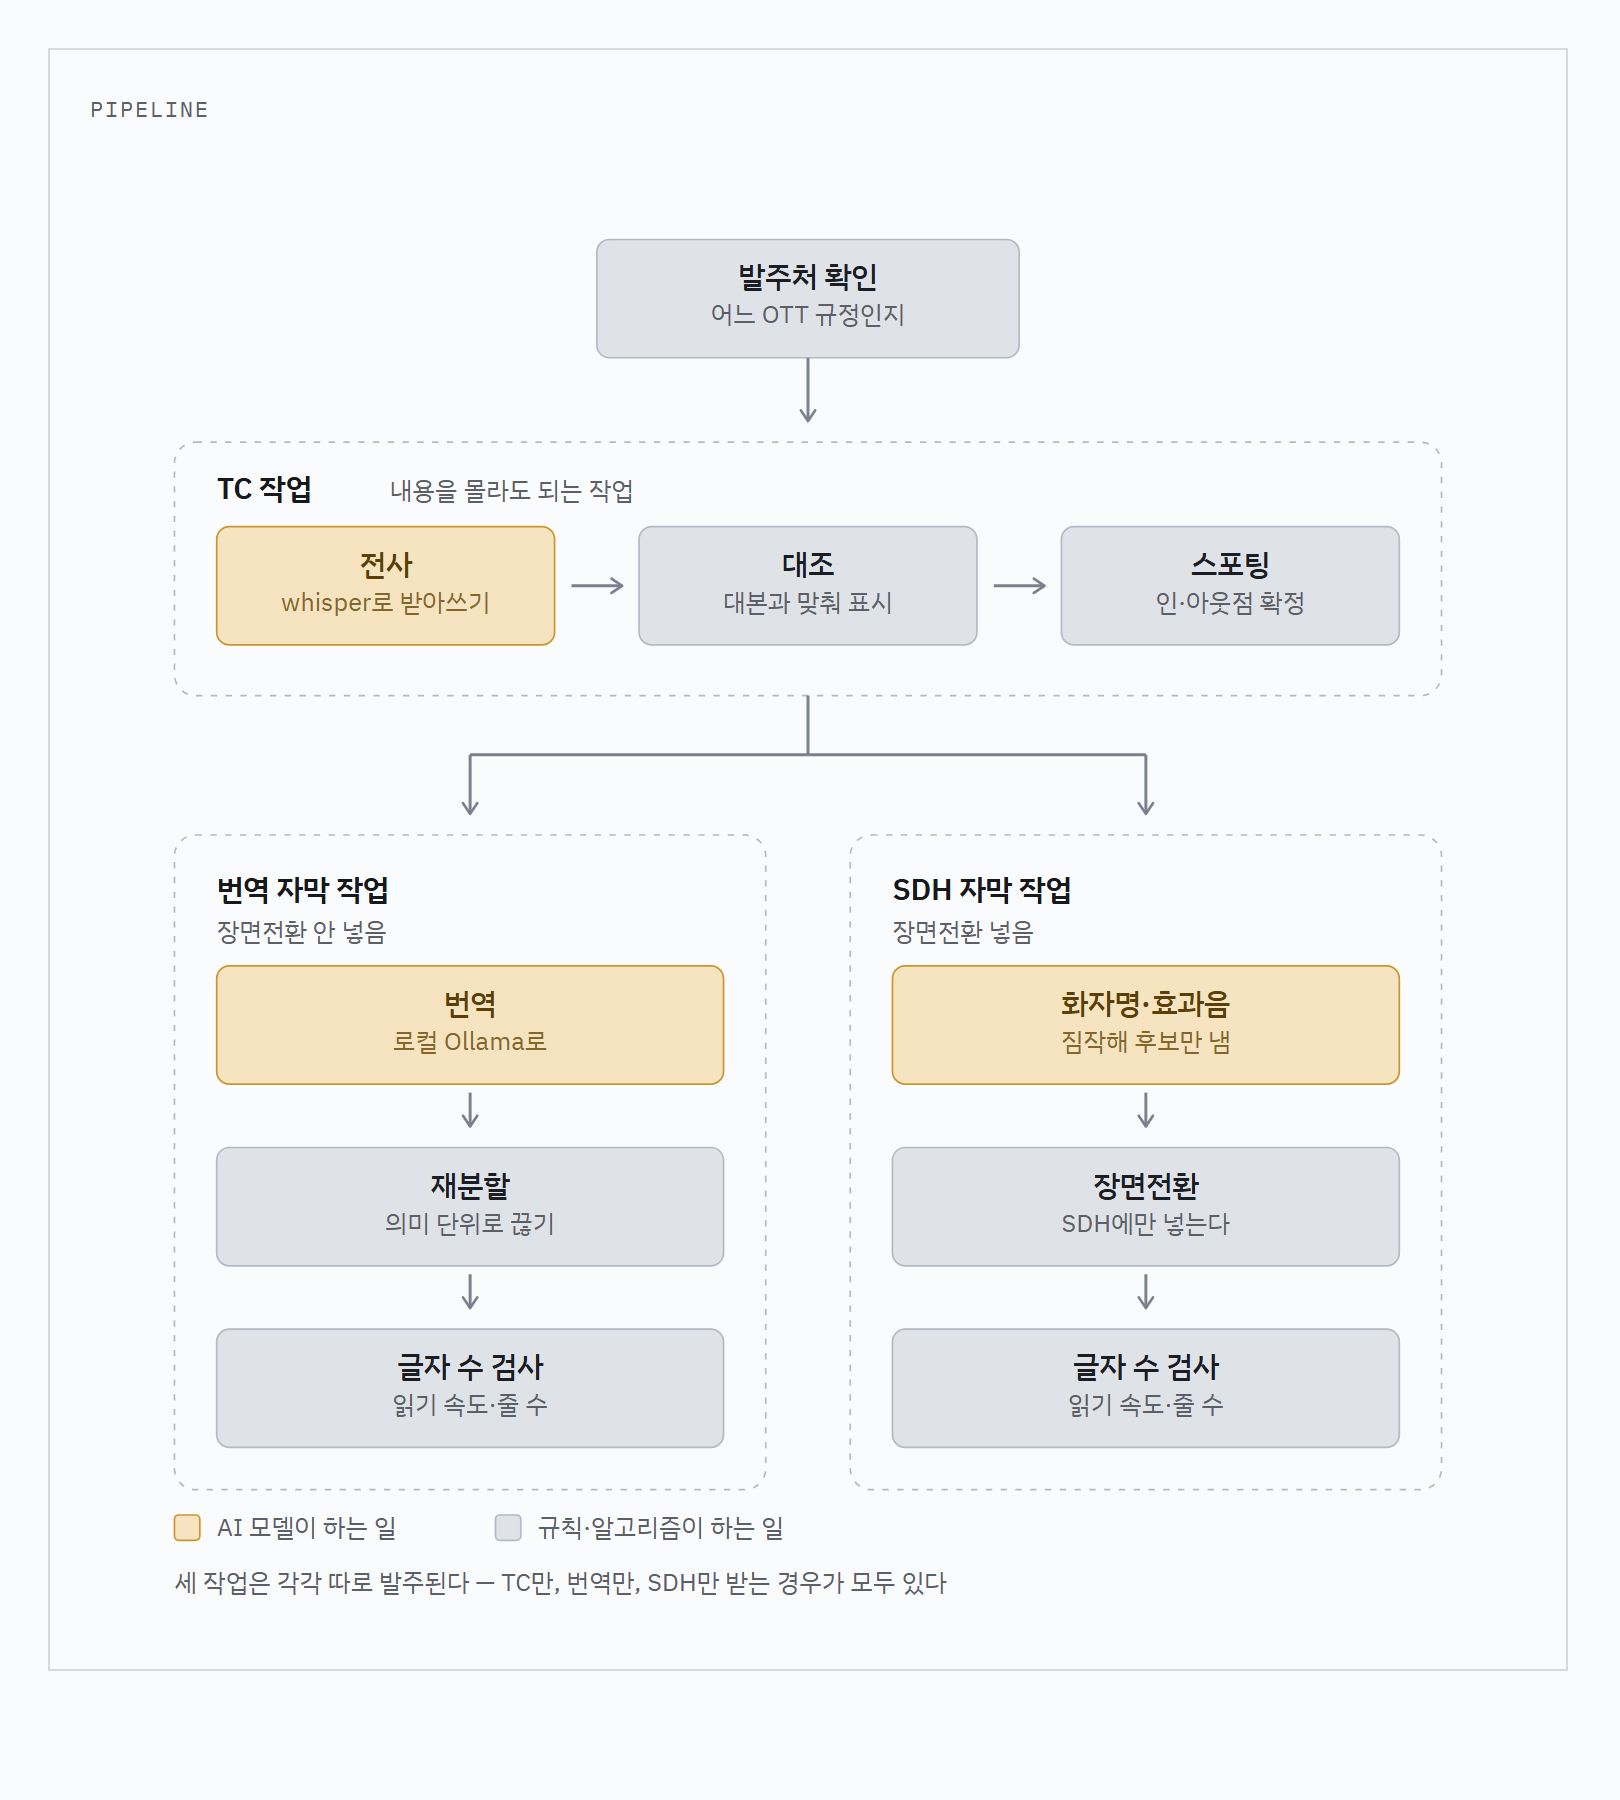
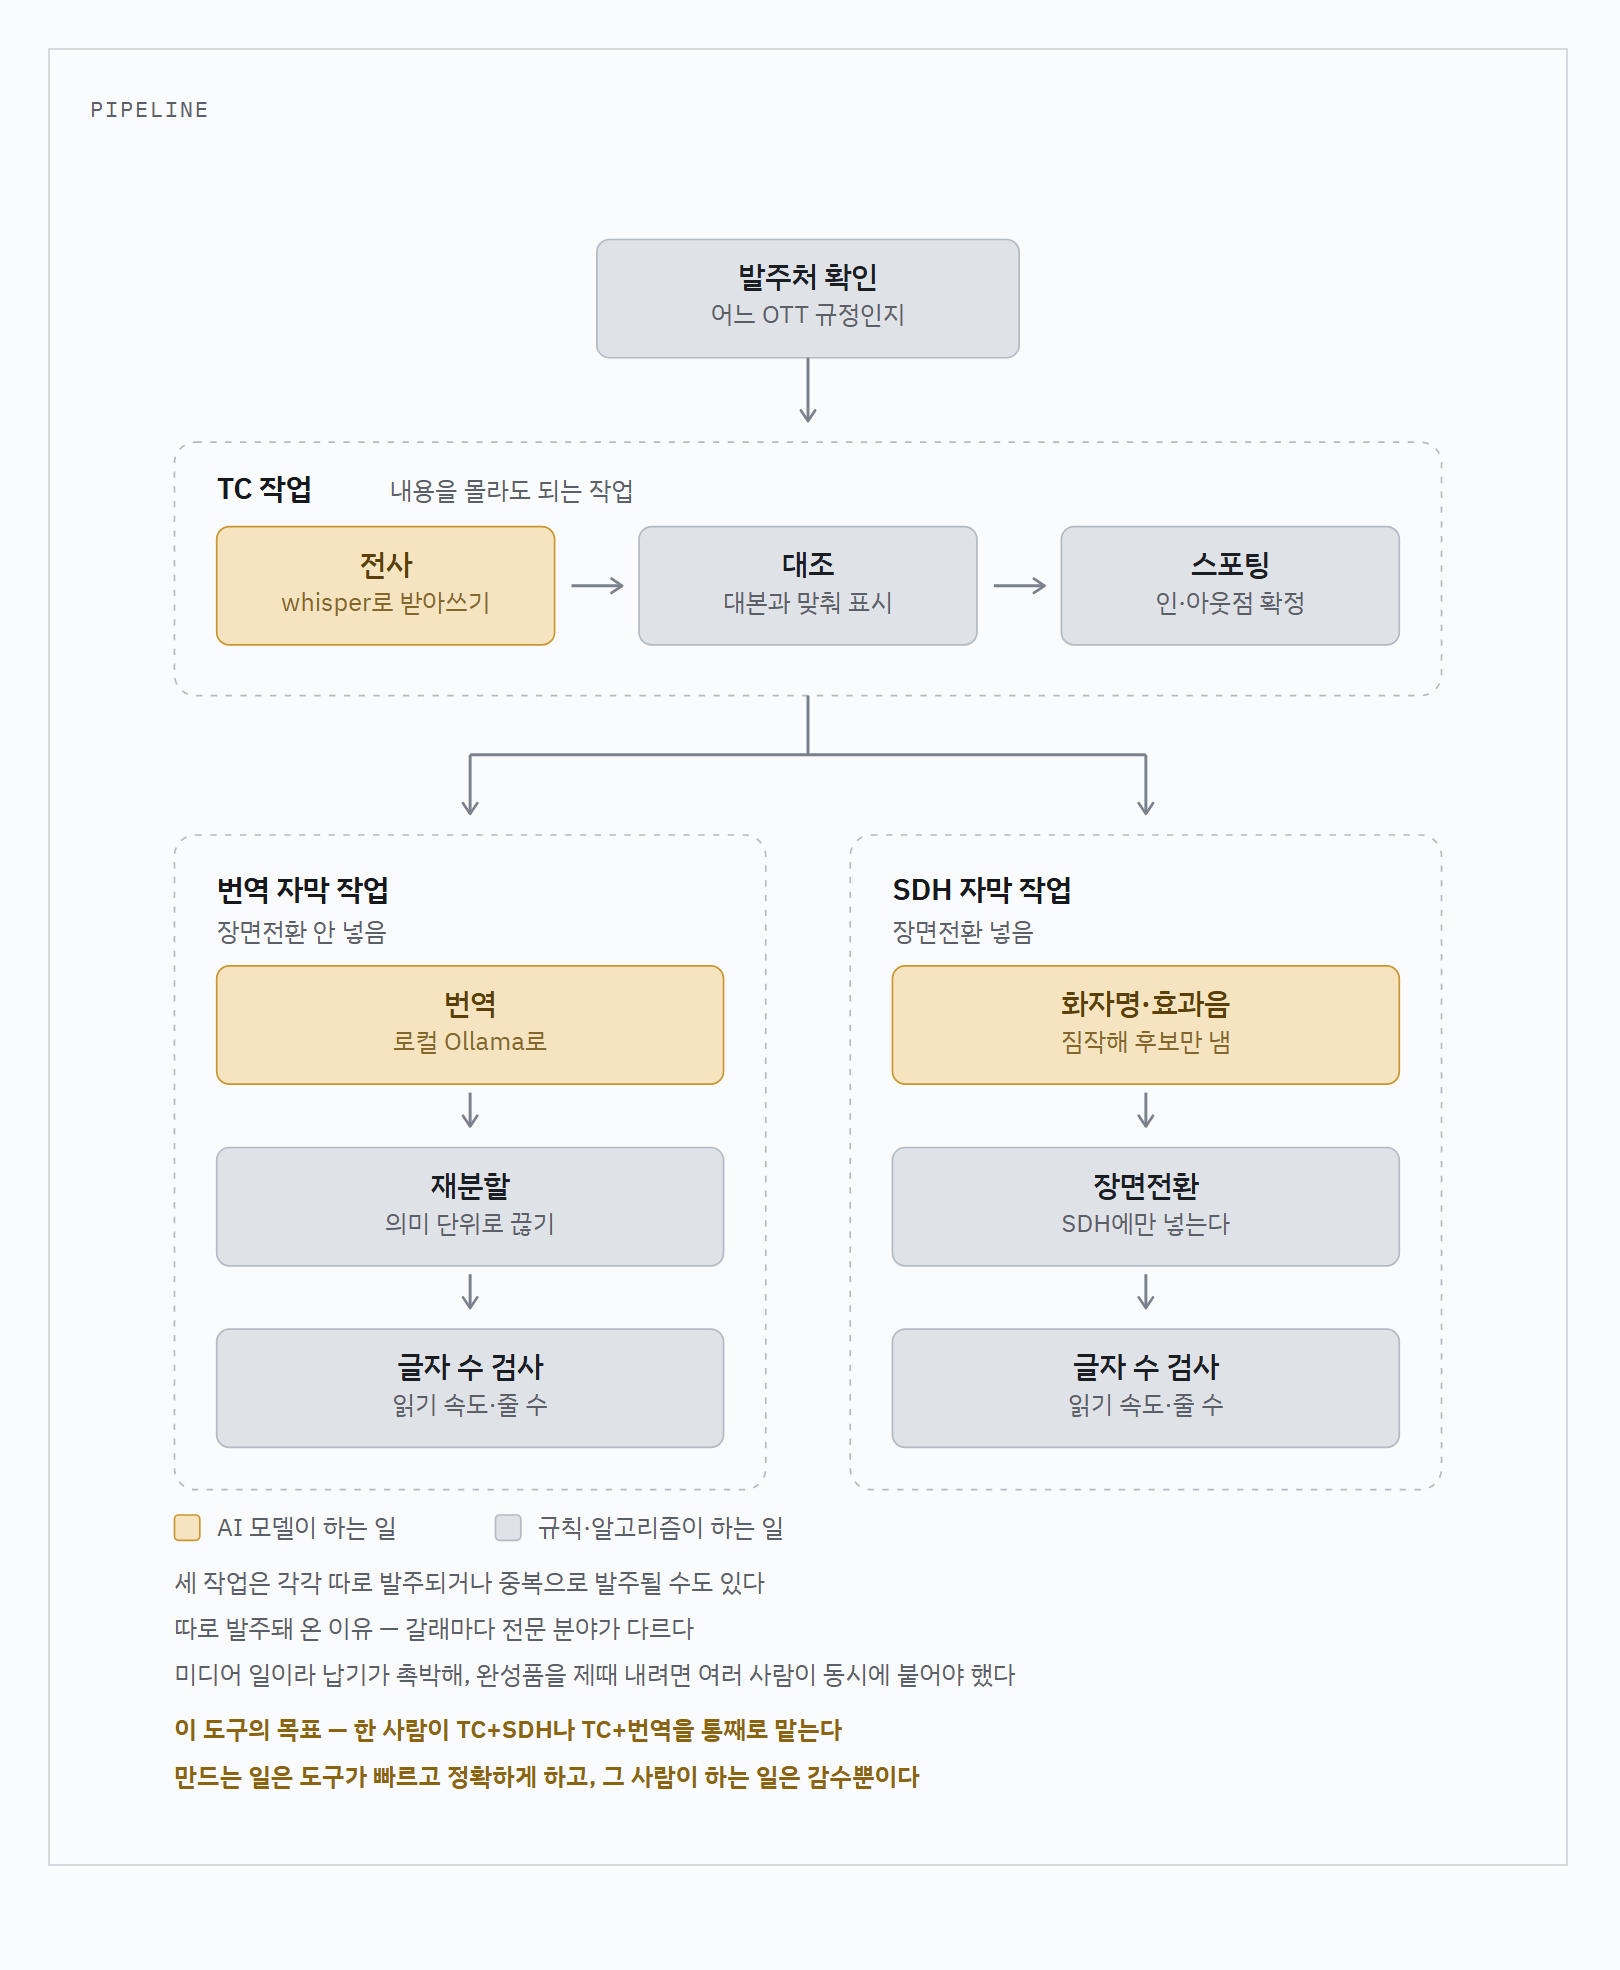
docs: 도식 캡션에 분업 이유와 목표를 다시 넣고 발주 문구를 고친다
사용자 요청(2026-09-10).

- '세 작업은 각각 따로 발주된다 — TC만, 번역만, SDH만 받는 경우가 모두 있다'를
  '세 작업은 각각 따로 발주되거나 중복으로 발주될 수도 있다'로 바꾼다
- 따로 발주돼 온 이유(전문 분야가 다르다, 납기가 촉박해 여러 사람이 동시에
  붙어야 했다)와 목표 두 줄을 캡션에 다시 넣는다

도식 구조는 처음 판 그대로다. 대본은 줄인 상태를 유지한다.

diff --git a/자막TC생성기-발표문.html b/자막TC생성기-발표문.html
@@ -66,6 +66,7 @@ svg{width:100%;height:auto;display:block;min-width:620px;
 .lbs{font-size:12px;fill:var(--ink-soft)}
 .lg{font-size:12px;fill:var(--ink-soft)}
 .cap{font-size:12px;fill:var(--ink-soft)}
+.cap-goal{font-size:12px;font-weight:600;fill:var(--accent)}
 .ar{stroke:var(--arrow);stroke-width:1.4;fill:none}
 .qa{margin-top:52px}
 .qa h2{font-family:"Gowun Batang",serif;font-size:24px;font-weight:700;margin:0 0 6px}
@@ -123,9 +124,9 @@ td em{font-style:normal;color:var(--ink-soft)}
   <div class="say">
     <figure class="figure">
     <figcaption>PIPELINE</figcaption>
-    <svg viewBox="0 0 680 700" role="img" aria-labelledby="plt pld">
+    <svg viewBox="0 0 680 792" role="img" aria-labelledby="plt pld">
       <title id="plt">자막 및 TC 생성기 작업 구조</title>
-      <desc id="pld">발주처 확인 뒤 TC 작업(전사, 대조, 스포팅)이 오고, 거기서 번역 자막 작업(번역, 재분할, 글자 수 검사)과 SDH 자막 작업(화자명·효과음, 장면전환, 글자 수 검사)으로 갈라진다. 세 작업은 각각 따로 발주된다.</desc>
+      <desc id="pld">발주처 확인 뒤 TC 작업(전사, 대조, 스포팅)이 오고, 거기서 번역 자막 작업(번역, 재분할, 글자 수 검사)과 SDH 자막 작업(화자명·효과음, 장면전환, 글자 수 검사)으로 갈라진다. 세 작업은 각각 따로 발주되기도 하고 중복으로 발주되기도 한다. 따로 발주돼 온 것은 갈래마다 전문 분야가 다른 데다, 미디어 일이라 납기가 촉박해 완성품을 제때 내려면 여러 사람이 동시에 붙어야 했기 때문이다. 이 도구의 목표는 한 사람이 TC와 SDH, 또는 TC와 번역을 통째로 맡는 것이다. 만드는 일은 도구가 하고, 그 사람이 하는 일은 도구가 낸 결과를 감수하는 것뿐이다.</desc>
       <defs><marker id="ar" viewBox="0 0 10 10" refX="8" refY="5" markerWidth="6" markerHeight="6" orient="auto-start-reverse"><path d="M2 1L8 5L2 9" fill="none" stroke="context-stroke" stroke-width="1.5" stroke-linecap="round" stroke-linejoin="round"/></marker></defs>
 
       <g class="n-rule">
@@ -207,7 +208,11 @@ td em{font-style:normal;color:var(--ink-soft)}
       <text class="lg" x="60" y="650" dominant-baseline="central">AI 모델이 하는 일</text>
       <g class="n-rule"><rect x="192" y="644" width="12" height="12" rx="2"/></g>
       <text class="lg" x="212" y="650" dominant-baseline="central">규칙·알고리즘이 하는 일</text>
-      <text class="cap" x="40" y="676" dominant-baseline="central">세 작업은 각각 따로 발주된다 — TC만, 번역만, SDH만 받는 경우가 모두 있다</text>
+      <text class="cap" x="40" y="676" dominant-baseline="central">세 작업은 각각 따로 발주되거나 중복으로 발주될 수도 있다</text>
+      <text class="cap" x="40" y="698" dominant-baseline="central">따로 발주돼 온 이유 — 갈래마다 전문 분야가 다르다</text>
+      <text class="cap" x="40" y="720" dominant-baseline="central">미디어 일이라 납기가 촉박해, 완성품을 제때 내려면 여러 사람이 동시에 붙어야 했다</text>
+      <text class="cap-goal" x="40" y="746" dominant-baseline="central">이 도구의 목표 — 한 사람이 TC+SDH나 TC+번역을 통째로 맡는다</text>
+      <text class="cap-goal" x="40" y="768" dominant-baseline="central">만드는 일은 도구가 빠르고 정확하게 하고, 그 사람이 하는 일은 감수뿐이다</text>
     </svg>
   </figure>
     <p>그래서 영상 하나 받으면 제일 먼저 이게 지금 어디서 상영 중인지부터 확인해요. 발주처가 정해져야 뒤에 따라야 할 규정이 정해지거든요.</p>
